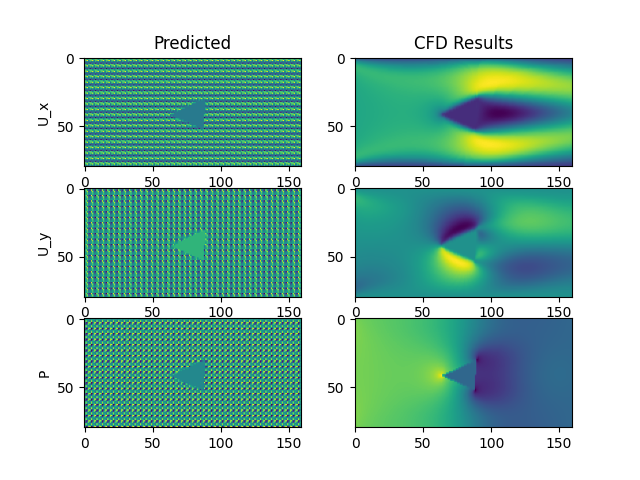
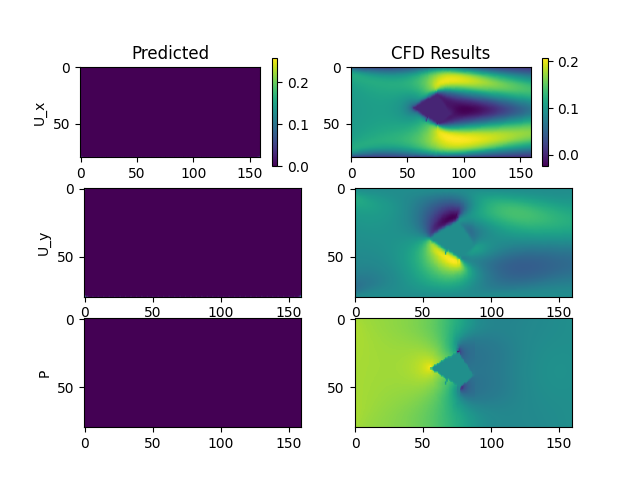
pre returning to two

diff --git a/cnn_encoder_model.py b/cnn_encoder_model.py
@@ -9,37 +9,43 @@ class CNNAutoEncoder(tf.keras.Model):
 
         self.adam_optimizer = tf.keras.optimizers.Adam(learning_rate=0.01)
         self.batch_size = 128
-        self.epochs = 5
+        self.epochs = 1
 
-        self.encoder_1 = Conv2D(128, 4, 4, 'same')
+        self.encoder_1 = Conv2D(128, 4, 4, 'same',activation='relu')
 
         self.encoder_2 = tf.keras.Sequential()
-        self.encoder_2.add(Conv2D(256, 4, 2, 'same'))
-        self.encoder_2.add(Conv2D(512, 4, 2, 'same'))
+        self.encoder_2.add(Conv2D(256, 4, 5, 'same',activation='relu'))
+        self.encoder_2.add(Conv2D(512, 4, 2, 'same',activation='relu'))
 
         self.dense = tf.keras.layers.Dense(1024, activation = 'relu')
 
         self.decoder_ux_1 = tf.keras.Sequential()
-        self.decoder_ux_1.add(Conv2DTranspose(128, 4, 4, 'same'))
+        self.decoder_ux_1.add(Conv2DTranspose(256, 4, 2, 'same',activation='relu'))
+        self.decoder_ux_1.add(Conv2DTranspose(128, 4, 5, 'same',activation='relu'))
 
         self.decoder_ux_2 = tf.keras.Sequential()
-        self.decoder_ux_2.add(Conv2DTranspose(64, 2, 2, 'same'))
-        self.decoder_ux_2.add(Conv2DTranspose(1, 2, 2, 'same'))
+        self.decoder_ux_2.add(Conv2DTranspose(64, 4, 2, 'same',activation='relu'))
+        self.decoder_ux_2.add(Conv2DTranspose(1, 4, 2, 'same',activation='sigmoid'))
+
+
 
         self.decoder_uy_1 = tf.keras.Sequential()
-        self.decoder_uy_1.add(Conv2DTranspose(128, 4, 4, 'same'))
+        self.decoder_uy_1.add(Conv2DTranspose(256, 4, 2, 'same',activation='relu'))
+        self.decoder_uy_1.add(Conv2DTranspose(128, 4, 5, 'same',activation='relu'))
 
         self.decoder_uy_2 = tf.keras.Sequential()
-        self.decoder_uy_2.add(Conv2DTranspose(64, 2, 2, 'same'))
-        self.decoder_uy_2.add(Conv2DTranspose(1, 2, 2, 'same'))
+        self.decoder_uy_2.add(Conv2DTranspose(64, 4, 2, 'same',activation='relu'))
+        self.decoder_uy_2.add(Conv2DTranspose(1, 4, 2, 'same',activation='sigmoid'))
+
+
 
         self.decoder_p_1 = tf.keras.Sequential()
-        self.decoder_p_1.add(Conv2DTranspose(128, 4, 4, 'same'))
+        self.decoder_p_1.add(Conv2DTranspose(256, 4, 2, 'same',activation='relu'))
+        self.decoder_p_1.add(Conv2DTranspose(128, 4, 5, 'same',activation='relu'))
 
         self.decoder_p_2 = tf.keras.Sequential()
-        self.decoder_p_2.add(Conv2DTranspose(64, 2, 2, 'same'))
-        self.decoder_p_2.add(Conv2DTranspose(1, 2, 2, 'same'))
-
+        self.decoder_p_2.add(Conv2DTranspose(64, 4, 2, 'same',activation='relu'))
+        self.decoder_p_2.add(Conv2DTranspose(1, 4, 2, 'same',activation='relu'))
     def call(self, input):
 
         residual = self.encoder_1(input)
@@ -47,7 +53,6 @@ class CNNAutoEncoder(tf.keras.Model):
         densified = self.dense(encoded)
 
         ux_residual = self.decoder_ux_1(densified) + residual
-
         uy_residual = self.decoder_uy_1(densified) + residual
         p_residual = self.decoder_p_1(densified) + residual
 

diff --git a/run.py b/run.py
@@ -103,27 +103,32 @@ def main():
 	testtrux = tf.expand_dims(trux,0)
 	testgeom = tf.expand_dims(geometries[random],0)
 
-	print(testux1.shape)
-	print(testtrux.shape)
-	print(testgeom.shape)
-
-
-	print(Our_Model.loss_function(testux1,testtrux,testgeom))
+	# print(testux1.shape)
+	# print(testtrux.shape)
+	# print(testgeom.shape)
+	#
+	#
+	# print(Our_Model.loss_function(testux1,testtrux,testgeom))
 
 	fig = plt.figure()
 	ax = fig.subplots(3,2)
-	ax[0,0].imshow(tf.squeeze(ux1))
+	bo = ax[0,0].imshow(tf.squeeze(ux1))
 	ax[0,0].set_title('Predicted')
 	ax[0,0].set_ylabel('U_x')
+	fig.colorbar(bo, ax=ax[0,0])
 	ax[1,0].imshow(uy1)
 	ax[1,0].set_ylabel('U_y')
 	ax[2,0].imshow(p1)
 	ax[2,0].set_ylabel('P')
-	ax[0,1].imshow(trux)
+	yo = ax[0,1].imshow(trux)
 	ax[0,1].set_title('CFD Results')
+	fig.colorbar(yo, ax=ax[0,1])
 	ax[1,1].imshow(truy)
 	ax[2,1].imshow(trup)
 	fig.savefig('results.png')
+
+	print(ux1)
+	tf.io.write_file('testt',ux1)
 
 
 	pass
